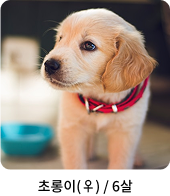
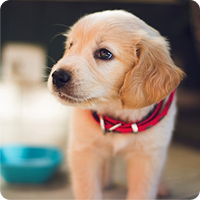
make the dogs home component

diff --git a/components/dogsHome.jsx b/components/dogsHome.jsx
@@ -1,66 +1,72 @@
+"use client"
 import React, { useState } from "react";
 import Image from "next/image";
 
 const pets = [
-  { id: 1, image: "/pet-images/pet1.png", name: "Golden Puppy" },
-  { id: 2, image: "/pet-images/pet2.png", name: "Brown Dog" },
-  { id: 3, image: "/pet-images/cat.png", name: "Grey Cat" },
-  { id: 4, image: "/pet-images/pet3.png", name: "White Dog" },
-  { id: 5, image: "/pet-images/pet4.png", name: "Black Cat" },
-  { id: 6, image: "/pet-images/pet5.png", name: "Black Cat" },
+  { id: 1, image: "/pet-images/pet1.png", name: "지돌이(♂) / 4살" },
+  { id: 2, image: "/pet-images/pet2.png", name: "초롱이(♀) / 6살" },
+  { id: 3, image: "/pet-images/cat.png" , name: "초롱이(♂) / 6살" },
+  { id: 4, image: "/pet-images/pet3.png", name: " 피유(♀) / 6살" },
+  { id: 5, image: "/pet-images/pet4.png", name: "glasses pet" },
+  { id: 6, image: "/pet-images/pet5.png", name: "window pet" },
 ];
 
 export default function Dogshome() {
   const [currentIndex, setCurrentIndex] = useState(0);
-
+  const visibleCount = 4;
+  
+  // Function to go to next slide/group
   const nextSlide = () => {
-    // Loop back to start if currentIndex reaches the end
-    setCurrentIndex((prevIndex) => (prevIndex + 1) % pets.length);
-  };
-
-  const prevSlide = () => {
-    // Loop back to the last image if currentIndex is at the beginning
     setCurrentIndex((prevIndex) =>
-      prevIndex === 0 ? pets.length - 1 : prevIndex - 1
+      // Agar current group last group hai, toh reset to 0, warna next image
+      prevIndex >= pets.length - visibleCount ? 0 : prevIndex + 1
+    );
+  };
+  
+  // Function to go to previous slide/group
+  const prevSlide = () => {
+    setCurrentIndex((prevIndex) =>
+      // Agar current index 0 hai, toh pichla group last group banega
+      prevIndex === 0 ? pets.length - visibleCount : prevIndex - 1
     );
   };
 
+  // For swipe functionality, store initial touch position in a variable
+  let touchStartX = 0;
+
   const handleTouchStart = (e) => {
-    // Store initial touch position for swipe detection
-    const touchStart = e.touches[0].clientX;
-    return touchStart;
+    touchStartX = e.touches[0].clientX;
   };
 
-  const handleTouchEnd = (e, touchStart) => {
-    // Detect swipe direction and update the index accordingly
-    const touchEnd = e.changedTouches[0].clientX;
-    const swipeThreshold = 50; // Minimum swipe distance to trigger change
-    if (touchStart - touchEnd > swipeThreshold) {
+  const handleTouchEnd = (e) => {
+    const touchEndX = e.changedTouches[0].clientX;
+    const swipeThreshold = 50; // Minimum distance to detect swipe
+    if (touchStartX - touchEndX > swipeThreshold) {
       nextSlide();
-    } else if (touchEnd - touchStart > swipeThreshold) {
+    } else if (touchEndX - touchStartX > swipeThreshold) {
       prevSlide();
     }
   };
 
   return (
-    <div className="w-full h-[687px] flex flex-col items-center bg-[#F7F7F7]">
-      <h2 className="text-[35px] noto-sans-kr-bold mb-12 w-[280px] h-[55px]">
-        입주를 환영합니다
+    <div className="w-full  flex flex-col items-center bg-[#F7F7F7]">
+      <h2 className="text-[35px] mt-24 noto-sans-kr-bold mb-12 w-[280px] h-[55px]">
+        입주를 환영합니다
       </h2>
-
-      <div className="relative">
-        <div className="relative w-[891px] h-[231px] mx-auto overflow-hidden md:flex md:items-center hidden">
-          {/* Left Button */}
-          <button
-            className="absolute left-4 top-1/2 transform -translate-y-1/2 z-10 p-2 rounded-full"
+      <div className="flex gap-4 mb-40">
+         {/* Left Button */}
+      <button
+            className="hidden md:flex items-center justify-center z-10 rounded-2xl"
             onClick={prevSlide}
           >
             <Image src={"/pet-images/left.svg"} width={19} height={33} alt="left" />
           </button>
-
+      <div className="relative  ">
+    
+        <div className="relative w-[891px] h-[231px] mx-auto overflow-hidden md:flex md:items-center hidden">                  
           {/* Image carousel */}
           <div
-            className="flex gap-4 transition-transform duration-300 ease-in-out"
+            className="flex gap-6 transition-transform duration-300 ease-in-out"
             style={{
               transform: `translateX(-${currentIndex * 204}px)`, // Move images by 1 image
             }}
@@ -70,22 +76,18 @@ export default function Dogshome() {
                 <Image
                   src={pet.image || "/placeholder.svg"}
                   alt={pet.name}
-                  width={199.87}
+                  width={200}
                   height={231}
                   className="rounded-lg object-cover"
                 />
+                <div className="flex text-center justify-center text-[16px] noto-sans-kr-bold">{pet.name}</div>
               </div>
             ))}
           </div>
 
-          {/* Right Button */}
-          <button
-            className="absolute right-4 top-1/2 transform -translate-y-1/2 z-10 p-2 rounded-full"
-            onClick={nextSlide}
-          >
-            <Image src={"/pet-images/right.svg"} width={19} height={33} alt="right" />
-          </button>
+         
         </div>
+        
 
         {/* Mobile View */}
         <div
@@ -106,6 +108,14 @@ export default function Dogshome() {
           ))}
         </div>
       </div>
+       {/* Right Button */}
+       <button
+            className="hidden md:flex "
+            onClick={nextSlide}
+          >
+            <Image src={"/pet-images/right.svg"} width={19} height={33} alt="right" />
+          </button>
+          </div>
     </div>
   );
 }

diff --git a/components/body/body_farm_content.jsx b/components/body/body_farm_content.jsx
@@ -91,25 +91,25 @@ export default function Body_Form_Content() {
                     <div className='text-[23px] noto-sans-kr-bold'>강아지 사진</div>
 
                     <div className="flex  md:gap-4  gap-1">
-                        <div className="md:w-[230px] w-[110px] h-[31px]  md:h-[50px]">
+                        <div className="md:w-[230px] w-[110px] h-[31px] relative md:h-[50px]">
                             <input type="text" placeholder='몸무게'
                                 className='w-full h-full md:placeholder:text-[16px] placeholder:text-[11px] md:h-[50px] border-[2px] px-2 border-[#D7D7D7]' />
-                            <span className="absolute md:text-[16px] text-[11px] noto-sans-kr text-[#939393] md:right-[935px] right-[255px] md:mt-3 mt-2"> kg</span>
+                            <span className="absolute md:text-[16px] text-[11px] noto-sans-kr text-[#939393] md:right-3 right-2 md:mt-3 mt-2"> kg</span>
 
                         </div>
                         {/* 2 */}
-                        <div className="md:w-[230px] w-[110px] h-[31px]  md:h-[50px]">
+                        <div className="md:w-[230px] w-[110px] h-[31px] relative  md:h-[50px]">
                             <input type="text" placeholder='체고'
                                 className='w-full h-full md:placeholder:text-[16px] placeholder:text-[11px] md:h-[50px] border-[2px] px-2 border-[#D7D7D7]' />
-                            <span className="absolute text-[11px] md:text-[16px] noto-sans-kr md:right-[715px] text-[#939393] md:mt-3 right-[160px] mt-2"> cm</span>
+                            <span className="absolute text-[11px] md:text-[16px] noto-sans-kr md:right-3 text-[#939393] md:mt-3 right-2 mt-2"> cm</span>
 
                         </div>
                         {/* 3 */}
-                        <div className="md:w-[230px] w-[110px] h-[31px]  md:h-[50px]">
+                        <div className="md:w-[230px] w-[110px] h-[31px] relative md:h-[50px]">
                             <input type="text" placeholder='등길이'
                                 className='w-full h-full md:placeholder:text-[16px] placeholder:text-[11px] md:h-[50px] border-[2px] px-2 border-[#D7D7D7]' />
 
-                            <span className="absolute text-[11px] noto-sans-kr md:text-[16px] text-[#939393]  md:right-[515px] md:mt-3 right-16 mt-2"> kg</span>
+                            <span className="absolute text-[11px] noto-sans-kr md:text-[16px] text-[#939393]  md:right-3 md:mt-3 right-16 mt-2"> kg</span>
                         </div>
                     </div>
                 </div>

diff --git a/components/mainPost.jsx b/components/mainPost.jsx
@@ -90,7 +90,7 @@ export default function MainPost() {
 
   return (
     <div className="container mx-auto p-4 max-w-4xl">
-      <h1 className="text-2xl font-bold text-center mb-8">입주건 커뮤니티 개시판</h1>
+      <h1 className="text-2xl font-bold text-center py-20">입주건 커뮤니티 개시판</h1>
 
       {/* Navigation */}
       <div
@@ -99,23 +99,21 @@ export default function MainPost() {
         {...bind()}
         style={{ touchAction: "pan-x" }}
       >
-        <div className="flex gap-6 border-b whitespace-nowrap pb-2">
+        <div className="border-b-2 border-black px-10">
+        <div className="flex gap-3  whitespace-nowrap pb-6 ">
           {["전체", "공지사항", "자주묻는질문", "1:1 문의", "맴버십혜택"].map((tab) => (
             <Button
               key={tab}
               variant="link"
-              className={activeTab === tab ? "text-primary" : "text-muted-foreground"}
+              className={activeTab === tab ? "text-primary" : "text-muted-foreground noto-sans-kr "}
               onClick={() => setActiveTab(tab)}
               data-active={activeTab === tab}
             >
               {tab}
             </Button>
           ))}
-        </div>
-      </div>
-
-      {/* Search Bar */}
-      <div className="flex justify-end mb-6">
+         {/* Search Bar */}
+      <div className="hidden md:flex justify-end ">
         <div className="flex w-full sm:w-72">
           <Input
             type="search"
@@ -132,11 +130,16 @@ export default function MainPost() {
           </Button>
         </div>
       </div>
+        </div></div>
+        
+      </div>
 
+     
+<div className="w-full border-b-2 border-black "> 
       {/* Posts List */}
-      <Accordion type="single" collapsible className="w-full">
+      <Accordion type="single" collapsible className="w-full ">
         {currentPosts.map((post, index) => (
-          <AccordionItem key={index} value={`item-${startIndex + index}`} className="border-b border-border py-2">
+          <AccordionItem key={index} value={`item-${startIndex + index}`} className="border-b border-border py-2 px-10">
             <AccordionTrigger className="hover:no-underline">
               <div className="flex items-center justify-between w-full">
                 <span className="text-sm text-left">{post.title}</span>
@@ -148,7 +151,7 @@ export default function MainPost() {
             </AccordionContent>
           </AccordionItem>
         ))}
-      </Accordion>
+      </Accordion></div>
 
       {/* Pagination */}
       <div className="flex justify-center items-center gap-4 mt-8">

diff --git a/components/Footer2.jsx b/components/Footer2.jsx
@@ -1,9 +1,10 @@
 import Link from "next/link"
 import { MessageCircle, ImageIcon } from "lucide-react"
+import Image from "next/image"
 
 export default function Footer2() {
   return (
-    <footer className="bg-black text-white px-4 py-8 md:py-12">
+    <footer className="bg-black text-white  px-4 py-8 md:py-12">
       <div className="max-w-6xl mx-auto">
         {/* Company Name */}
         <h2 className="text-2xl font-bold mb-4">모드니펫 MODNEYPET</h2>
@@ -24,28 +25,31 @@ export default function Footer2() {
         </div>
 
         {/* Social Icons */}
-        <div className="flex flex-wrap gap-4 mb-6">
+        <div className="flex flex-wrap  gap-4 mb-6">
           <Link href="#" className="w-10 h-10 bg-white rounded-full flex items-center justify-center">
-            <span className="text-black font-bold">N</span>
+            <Image src = "/footer/N.svg" width= {16} height={10} alt="N"/>
           </Link>
           <Link href="#" className="w-10 h-10 bg-white rounded-full flex items-center justify-center">
-            <MessageCircle className="w-5 h-5 text-black" />
+          <Image src = "/footer/blog.svg" width= {16} height={10} alt="blog"/>
           </Link>
           <Link href="#" className="w-10 h-10 bg-white rounded-full flex items-center justify-center">
-            <ImageIcon className="w-5 h-5 text-black" />
+          <Image src = "/footer/talk.svg" width= {16} height={10} alt="talk"/>
           </Link>
           <Link href="#" className="w-10 h-10 bg-white rounded-full flex items-center justify-center">
-            <span className="text-black font-bold">@</span>
+          <Image src = "/footer/insta.svg" width= {16} height={10} alt="insta"/>
           </Link>
           <Link href="#" className="w-10 h-10 bg-white rounded-full flex items-center justify-center">
-            <span className="text-black font-bold">n</span>
+          <Image src = "/footer/u.svg" width= {16} height={10} alt="u"/>
           </Link>
           <Link href="#" className="w-10 h-10 bg-white rounded-full flex items-center justify-center">
-            <span className="text-black font-bold">○</span>
+          <Image src = "/footer/o.svg" width= {16} height={10} alt="o"/>
           </Link>
           <Link href="#" className="w-10 h-10 bg-white rounded-full flex items-center justify-center">
-            <span className="text-black font-bold">●</span>
+          <Image src = "/footer/ponja.svg" width= {16} height={10} alt="ponja"/>
           </Link>
+        </div>
+        <div className="border-b-2 border-white mb-5">
+
         </div>
 
         {/* Copyright */}

diff --git a/components/body/body2.jsx b/components/body/body2.jsx
@@ -46,13 +46,13 @@ export default function Body2() {
     
   }]
   return (
-    <div className='md:w-[95%] w-[100%] md:h-[1127px] Md:max-h-[100%]  border-t md:border-[2px] border-[#A5A5A5] bg-[#FFFCF3]'>
+    <div className='md:w-[95%] w-[100%]  border-t md:border-[2px] border-[#A5A5A5] bg-[#FFFCF3]'>
         {/* button div */}
         <div><Button title="하우스 오너"/></div>
         {/* content div */}
         <div className='w-full h-full mt-4 md:mt-0 flex justify-center items-center'>
             {/* main div */}
-          <div className='md:w-[70%] w-[90%] md:h-[783px] flex flex-col  '>
+          <div className='md:w-[70%] w-[90%] flex flex-col  '>
           <div className='md:text-[45px] text-[30px] text-center noto-sans-kr-bold border-[#DDDDDD] pb-8'>하우스백 입주절차안내</div>
           <div>
              {/* Map through Body_Content and pass each object to Body2_Content */}

diff --git a/components/page/Login.jsx b/components/page/Login.jsx
@@ -65,7 +65,7 @@ function Login({ setIsValid }) {
 
   return (
     <>
-<div className="h-[100vh] w-[100%] bg-cover bg-center bg-[url('/bg-login.jpg')] relative">
+<div className="md:h-[120vh] h-[80vh] w-[100%] bg-cover bg-center bg-[url('/bg-login.jpg')] relative">
   <div className='absolute top-[100px] left-0 right-0 flex justify-center items-center flex-col '>
           <div className="flex w-[257.9999694824219px]  md:w-[414.9999694824219px] h-[107.99999237060547px] md:h-[197.99998474121094px] items-center justify-center ">
           <h1 className="built-titling-font text-[58px] md:text-[90px] text-center text-white m-0 leading-none">

diff --git a/app/main/page.js b/app/main/page.js
@@ -15,18 +15,15 @@ function Main() {
     <div className='bg-[#FFFCF3]' >
       {/* header */}
     <div><MainPic/></div>
-    <div>
+    <div className='mb-5'>
 
     <Body/>
-    <Body1/>
-    <Body2/>
-    <Body3/>
-    <Body_Form/>
+    
 </div>
        {/* Footer */}
  
 
-    <Footer2/>
+     <Footer2/> 
 
     
     </div>

diff --git a/components/body/body.jsx b/components/body/body.jsx
@@ -55,12 +55,10 @@ export default function Body() {
           </div>
         </div>
         {/* div 2 */}
-        {/* <Body1 />
+        <Body1 />
         <Body2 />
         <Body3 />
-        <Body_Form /> */}
-
-
+        <Body_Form /> 
 
       </div>
 
